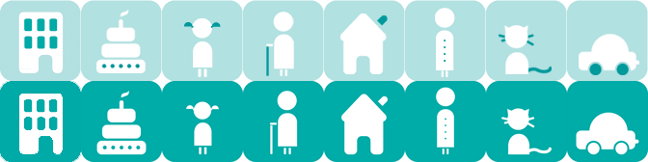
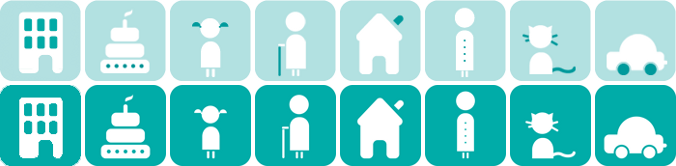
Re-created search-categories sprite to have a 4px margin between every image, adjusting css, to avoid Google Chrome zooming problem #118

diff --git a/Styles/style.css b/Styles/style.css
@@ -2165,31 +2165,31 @@ html.boxshadow #loginBox .field-validation-error{
     height: 84px;
     display: block;
 }
-.search-categories li.cat-home{             background-position: -324px 0}
-.search-categories li.cat-child{            background-position: -162px 0}
-.search-categories li.cat-pets{             background-position: -486px 0}
-.search-categories li.cat-people{           background-position: -405px 0}
-.search-categories li.cat-transport{        background-position: -567px 0}
+.search-categories li.cat-home{             background-position: -340px  0}
+.search-categories li.cat-child{            background-position: -170px 0}
+.search-categories li.cat-pets{             background-position: -510px 0}
+.search-categories li.cat-people{           background-position: -425px 0}
+.search-categories li.cat-transport{        background-position: -595px 0}
 .search-categories li.cat-business{         background-position: 0 0}
-.search-categories li.cat-elderly{          background-position: -243px 0}
-.search-categories li.cat-celebrations{     background-position: -81px 0}
+.search-categories li.cat-elderly{          background-position: -255px 0}
+.search-categories li.cat-celebrations{     background-position: -85px 0}
 /* Selected image */
 .search-categories li.selected.cat-home,
-.search-categories li.cat-home:hover{             background-position: -324px -81px}
+.search-categories li.cat-home:hover{             background-position: -340px -85px}
 .search-categories li.selected.cat-child,
-.search-categories li.cat-child:hover{            background-position: -162px -81px}
+.search-categories li.cat-child:hover{            background-position: -170px -85px}
 .search-categories li.selected.cat-pets,
-.search-categories li.cat-pets:hover{             background-position: -486px -81px}
+.search-categories li.cat-pets:hover{             background-position: -510px -85px}
 .search-categories li.selected.cat-people,
-.search-categories li.cat-people:hover{           background-position: -405px -81px}
+.search-categories li.cat-people:hover{           background-position: -425px -85px}
 .search-categories li.selected.cat-transport,
-.search-categories li.cat-transport:hover{        background-position: -567px -81px}
+.search-categories li.cat-transport:hover{        background-position: -595px -85px}
 .search-categories li.selected.cat-business,
-.search-categories li.cat-business:hover{         background-position: 0 -81px}
+.search-categories li.cat-business:hover{         background-position: 0 -85px}
 .search-categories li.selected.cat-elderly,
-.search-categories li.cat-elderly:hover{          background-position: -243px -81px}
+.search-categories li.cat-elderly:hover{          background-position: -255px -85px}
 .search-categories li.selected.cat-celebrations,
-.search-categories li.cat-celebrations:hover{     background-position: -81px -81px}
+.search-categories li.cat-celebrations:hover{     background-position: -85px -85px}
 
 /*==================
  * Social networking
